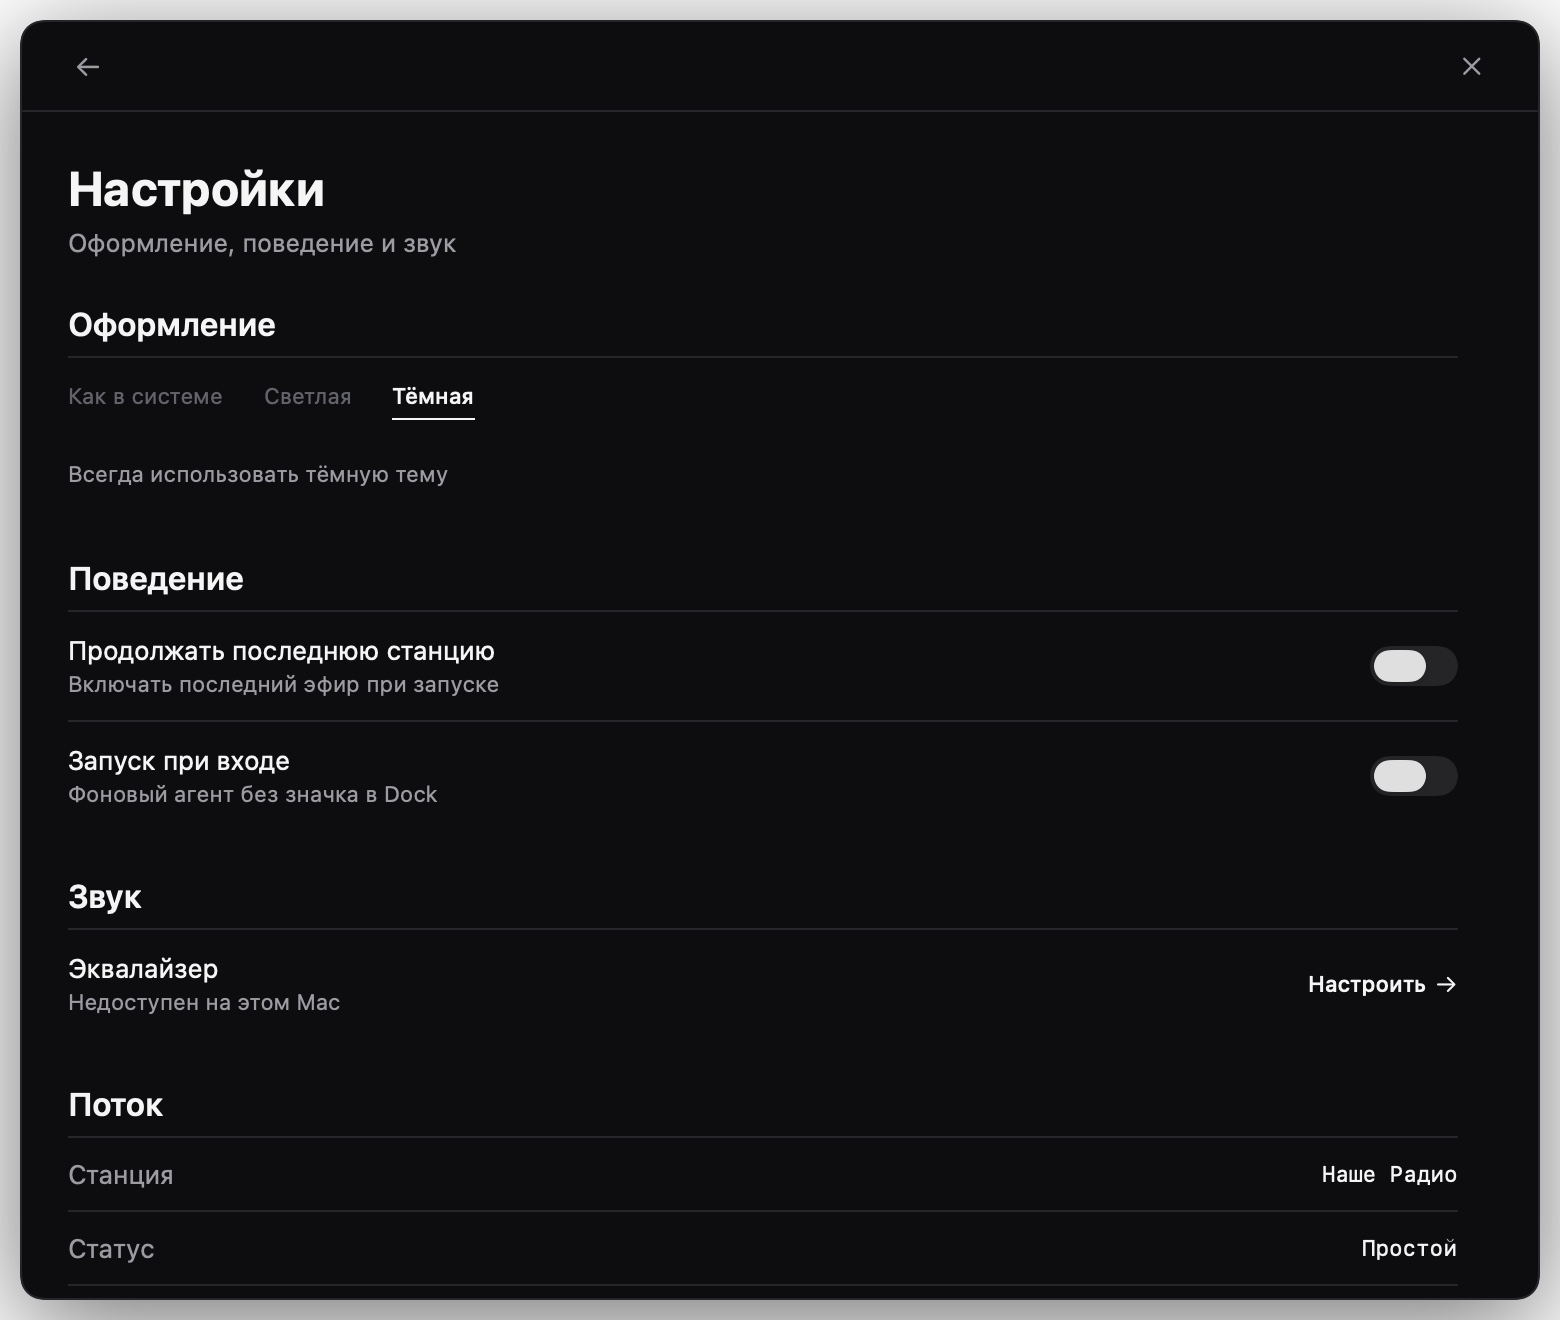
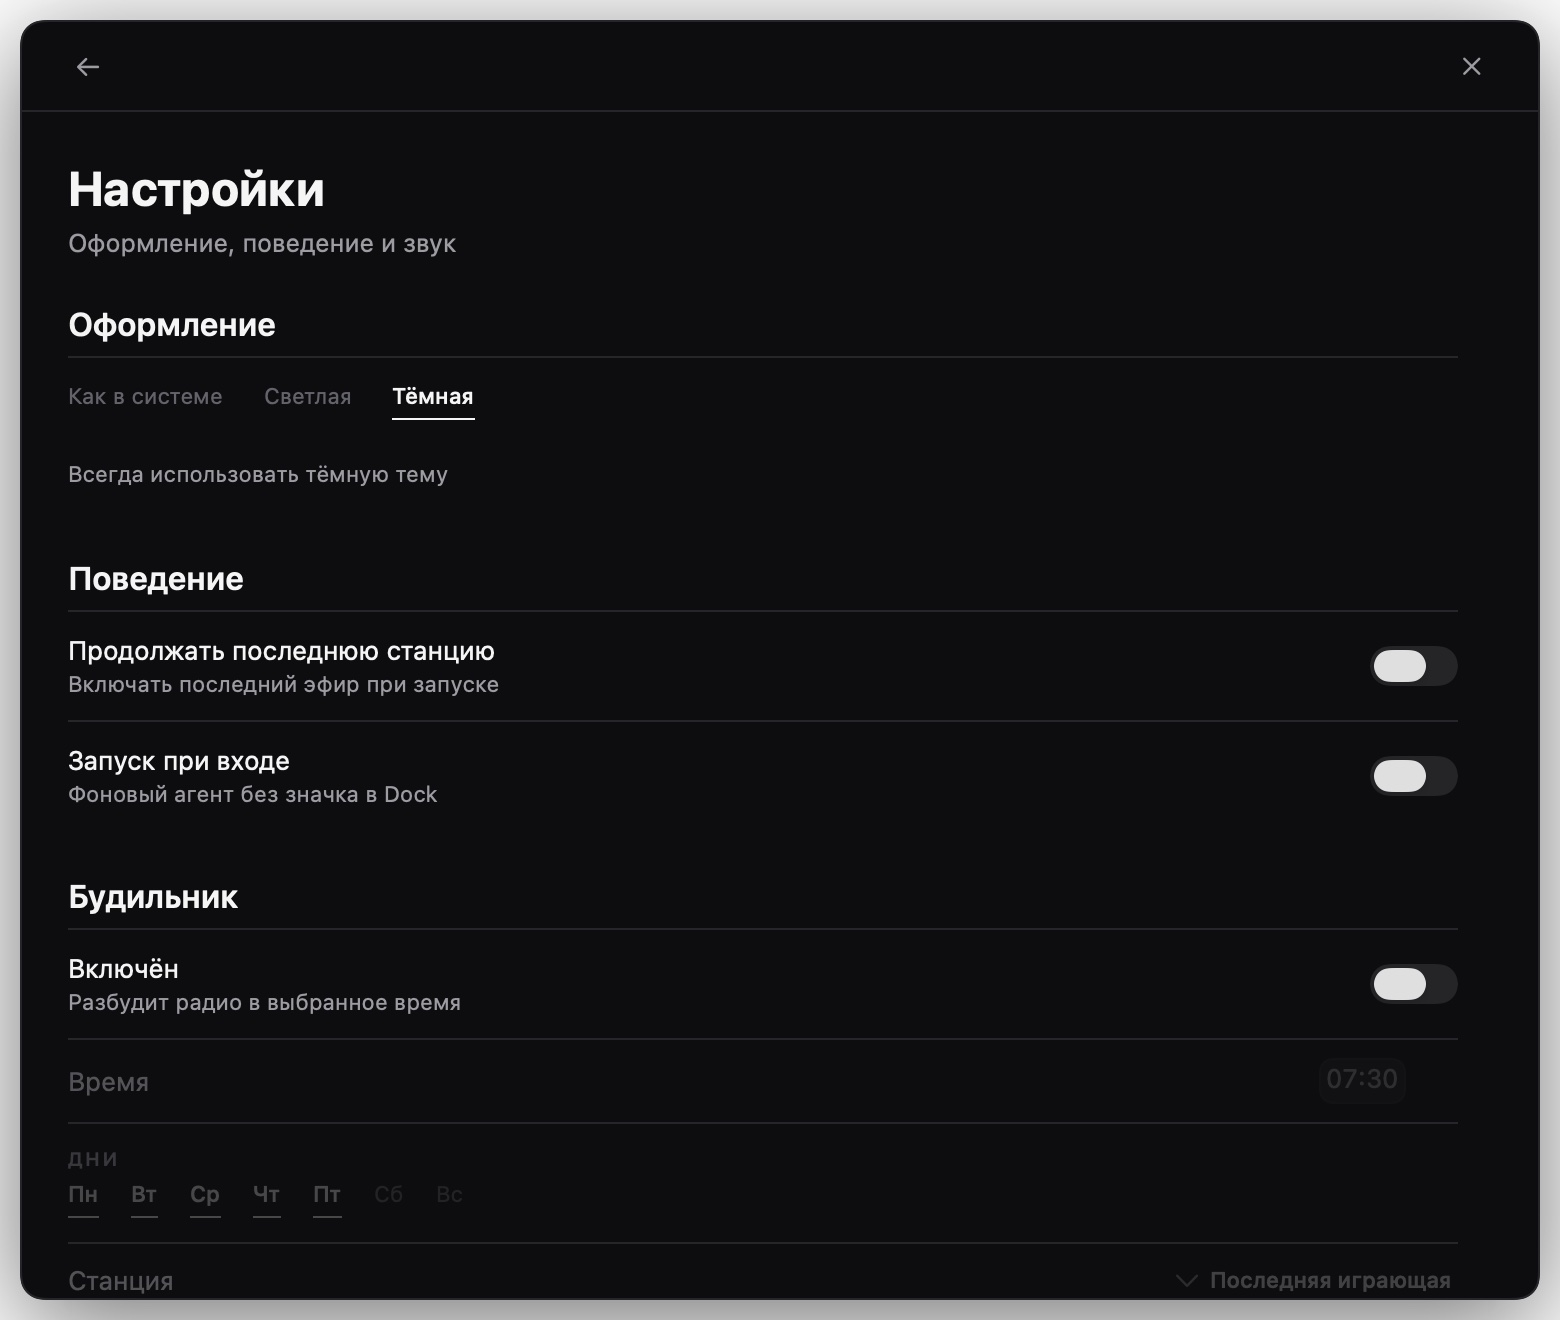
docs: document alarm radio (#10)
- update README, CHANGELOG and the roadmap
- describe the alarm in the wiki and refresh the settings screenshots

diff --git a/ROADMAP.md b/ROADMAP.md
@@ -7,7 +7,7 @@
 - **P1** — ежедневный сценарий: заметно улучшает повседневное использование.
 - **P2** — расширение и технический долг: полезно, но не блокирует релиз.
 
-✅ — реализовано локально, тесты 16/16; изменения ждут коммита.
+✅ — реализовано, тесты 17/17.
 
 Каждый ID — кандидат в карточку GitHub Project
 [RadioMac #11](https://github.com/users/fso13/projects/11). В колонке «Результат» —
@@ -46,7 +46,7 @@
 | --- | --- | --- |
 | RM-18 | **iCloud-синхронизация** | Станции, избранное и настройки синхронизируются между Mac; разрешение конфликтов и opt-in. |
 | RM-19 | **Виджет и Control Center** | Виджет macOS 14+ с текущей станцией и play/pause; элемент управления в Control Center на поддерживаемых версиях. |
-| RM-20 | **Будильник-радио** | Расписание по дням недели, выбор станции, плавное нарастание громкости, уведомление. |
+| RM-20 ✅ | **Будильник-радио** | Расписание по дням недели, выбор станции, плавное нарастание громкости, уведомление. |
 | RM-21 | **Homebrew Cask** | `brew install --cask radiomac`; формула/тап обновляется вместе с релизом. |
 | RM-22 | **Swift 6 strict concurrency** | Языковой режим Swift 6, аудит `@MainActor`, отсутствие предупреждений конкурентности; warnings as errors в CI. |
 | RM-23 | **Опциональные краш-репорты** | Выключены по умолчанию, только при согласии, без PII и истории станций; прозрачная политика. |

diff --git a/wiki/Development.md b/wiki/Development.md
@@ -10,7 +10,7 @@ RadioMac/                 исходники приложения
   UI/                     SwiftUI-экраны и дизайн-система
   Window/                 статус-итем, панель, клавиатура, роутинг, debug-харнесс
   Resources/              Info.plist, entitlements, ассеты
-RadioMacTests/            16 логических тестов
+RadioMacTests/            17 логических тестов
 ThirdParty/BASS/          BASS и аддоны + SHA256SUMS
 site/                     статический сайт для GitHub Pages
 wiki/                     исходники этой вики
@@ -35,7 +35,7 @@ APP=.build/DerivedData/Build/Products/Debug/RadioMac.app
 
 Файлы: `01-main.png`, `02-settings.png`, `03-equalizer.png`, `04-editor.png`,
 `05-favorites.png`, `06-dark.png`, `07-reshown.png`, `08-playing.png`,
-`09-settings-dark.png`, `10-stream-info.png`. Харнесс сам переключает темы, открывает листы и запускает
+`09-settings-dark.png`. Харнесс сам переключает темы, открывает листы и запускает
 станцию, затем завершает приложение.
 
 `-playtest <файл>` запускает три потока (MP3, AAC, MP3) и записывает результат

diff --git a/wiki/Settings.md b/wiki/Settings.md
@@ -24,6 +24,17 @@
 **Системные настройки → Основные → Объекты входа**. Приложение не показывается в Dock,
 поэтому ищите его по имени RadioMac.
 
+## Будильник
+
+- Включите будильник, выберите время, дни недели и станцию.
+- Громкость нарастает за 30 секунд; если станция не выбрана, играет последняя
+  или первая из библиотеки.
+- При включении приложение запрашивает разрешение на уведомления. Если оно
+  запрещено, будильник всё равно сработает, пока RadioMac запущен.
+- После сна будильник догоняет расписание в течение 10 минут; полностью выключенный
+  Mac разбудить нельзя — приложение должно работать.
+- «Следующий» показывает ближайший запуск по выбранным дням.
+
 ## Звук
 
 - «Эквалайзер» показывает текущее состояние (включён/выключен/недоступен) и пресет.

diff --git a/wiki/Features.md b/wiki/Features.md
@@ -25,6 +25,12 @@ RadioMac — одно окно, одна страница и один транс
 «Джаз для ужина». Группы видны в левой навигации и фильтруют таблицу. В режиме «Все»
 строки можно перетаскивать, чтобы задать собственный порядок.
 
+## Будильник-радио
+
+Расписание по дням недели, выбор станции и плавное нарастание громкости за 30 секунд.
+Локальное уведомление появляется, если разрешены уведомления; после сна будильник
+догоняет расписание в течение 10 минут. Приложение при этом должно быть запущено.
+
 ## Диагностика потока
 
 В настройках, раздел «Поток», видны кодек, битрейт, частота, каналы, буфер и сервер.

diff --git a/wiki/Build.md b/wiki/Build.md
@@ -36,8 +36,8 @@ xcodebuild test -project RadioMac.xcodeproj -scheme RadioMac \
   -destination 'platform=macOS'
 ```
 
-16 логических тестов: парсер метаданных, каталог, миграция, хранилище, жанры, эквалайзер,
-группы/порядок станций и форматирование информации о потоке.
+17 логических тестов: парсер метаданных, каталог, миграция, хранилище, жанры, эквалайзер,
+группы/порядок станций, информация о потоке и расписание будильника.
 Тесты запускаются в host-приложении, поэтому окно и статус-итем создаются, но это
 не влияет на результат.
 

diff --git a/wiki/Home.md b/wiki/Home.md
@@ -30,6 +30,7 @@
   Now Playing в Control Center.
 - **10-полосный эквалайзер** с пресетами и своей кривой.
 - **Группы станций** и собственный порядок перетаскиванием.
+- **Будильник-радио** с расписанием по дням недели и плавным нарастанием.
 - **Диагностика потока**: кодек, битрейт, частота, каналы, буфер и сервер.
 - **Светлая и тёмная темы** — одна монохромная система в двух инверсиях.
 - **Живёт в меню-баре**: без Dock, с автозапуском и продолжением последней станции.

diff --git a/CHANGELOG.md b/CHANGELOG.md
@@ -11,6 +11,8 @@
   и копирование диагностики.
 - Группы станций: поле «Группа» в редакторе, фильтр групп в навигации
   и изменение порядка перетаскиванием в режиме «Все».
+- Будильник-радио: расписание по дням недели, выбор станции, плавное нарастание
+  громкости и локальное уведомление.
 
 ### Безопасность
 
